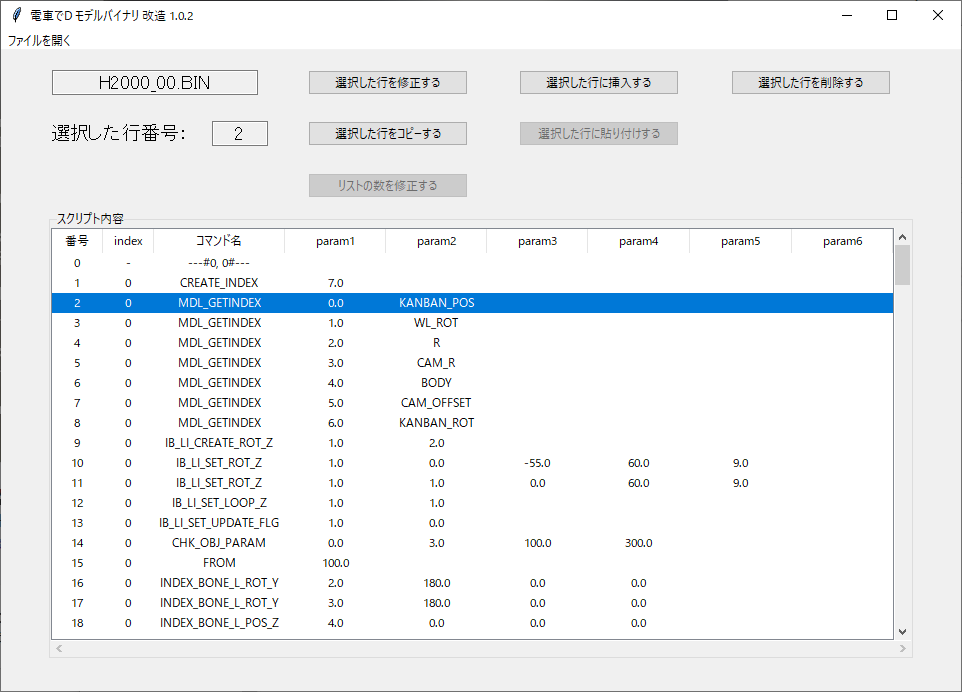
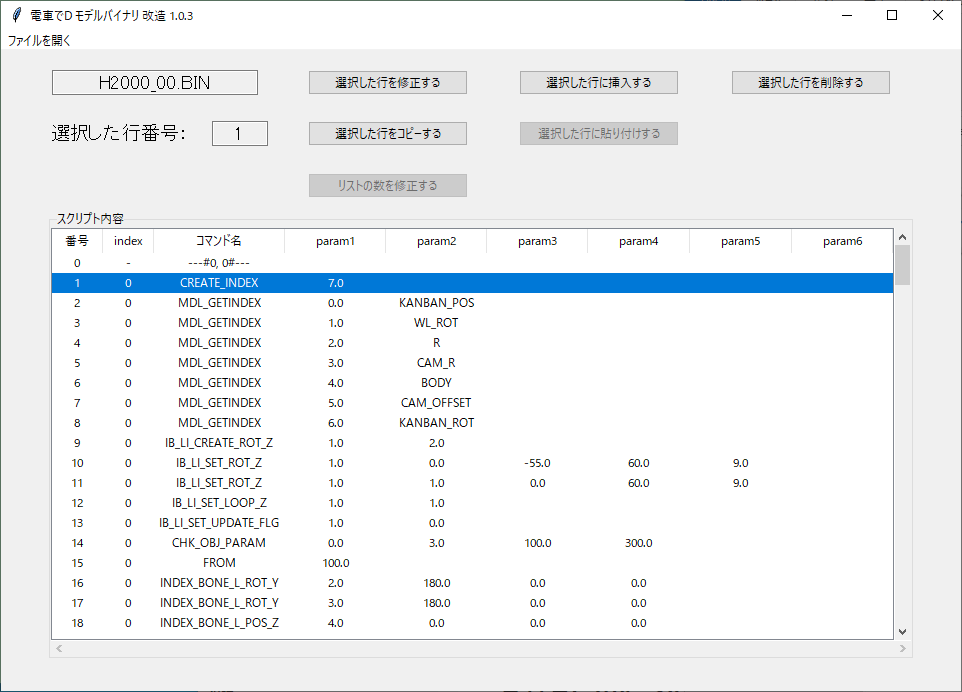
バグ修正

Changed region(s): [[0.0312, 0.3945, 0.9356, 0.4552], [0.1871, 0.0, 0.2183, 0.0303]]

diff --git a/mdlDecrypt.py b/mdlDecrypt.py
@@ -709,7 +709,7 @@ def nextSection(line, cmdDiffIdx = None):
         index += 1
         scriptData.append(paraCnt)
 
-        if ver == 4:
+        if ver >= 3:
             fileCnt = line[index]
             index += 1
         elif ver == 2 and cmdList[cmdNum] in ["MDL_GETINDEX", "SET_LENSFLEAR_MT"]:
@@ -937,7 +937,7 @@ class inputDialog(sd.Dialog):
                     num = float(var.get())
                 except:
                     floatFlag = False
-                    if ver != 4:
+                    if ver < 3:
                         if ver != 2:
                             errorFlag = True
                         elif self.v_cmd.get() not in ["MDL_GETINDEX", "SET_LENSFLEAR_MT"]:
@@ -1198,7 +1198,7 @@ def saveFile(num, listNum, cmdDiffIdx, mode, scriptData = None):
                 newByteArr.append(n)
 
             newByteArr.append(scriptData[2])
-            if ver == 4:
+            if ver >= 3:
                 newByteArr.append(scriptData[3])
 
             floatFlag = True
@@ -1282,7 +1282,7 @@ def listNumModifyBtn():
     listNumModifyDialog(root, num, len(scriptDataInfoList))
 
 root = Tk()
-root.title("電車でD モデルバイナリ 改造 1.0.2")
+root.title("電車でD モデルバイナリ 改造 1.0.3")
 root.geometry("960x640")
 
 menubar = Menu(root)
